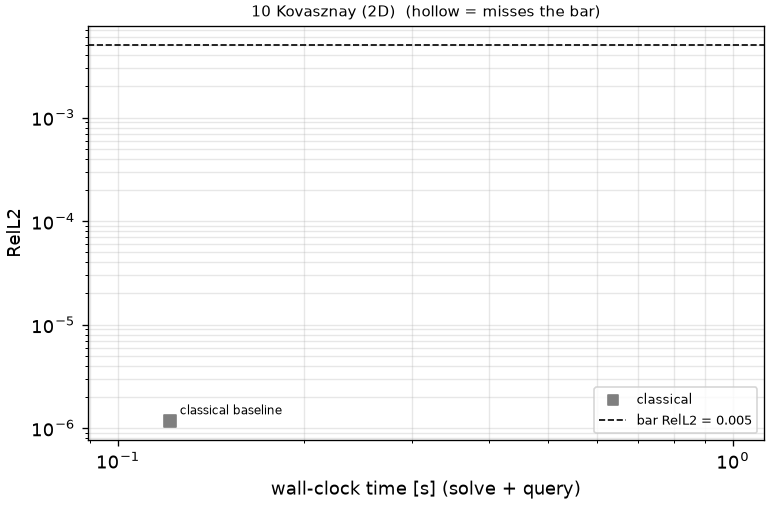
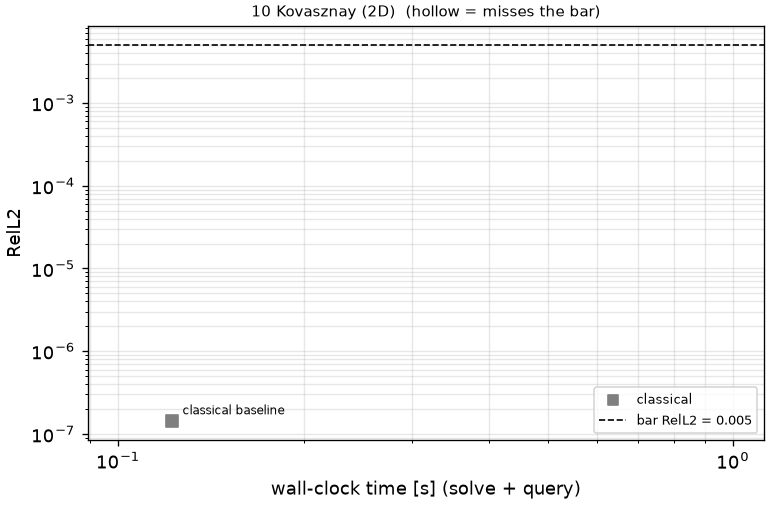
Rescore the multi-field baselines (10, 12, 13) under the flattened metric

diff --git a/tracks/track12_2DT_Burgers/README.md b/tracks/track12_2DT_Burgers/README.md
@@ -13,7 +13,7 @@ Output: (u, v) on the prescribed 512 x 512 grid x_i = -0.25 + i / 512, y_j = -0.
 11 snapshot times t = linspace(0, 0.5, 11); shape (2, 11, 512, 512).
 ```
 
-**Accuracy bar:** RelL2 ≤ 0.005, RelL∞ ≤ 0.01 (per field). **Budget:** 1000 s of wall-clock solve time.
+**Accuracy bar:** RelL2 ≤ 0.005, RelL∞ ≤ 0.01. **Budget:** 1000 s of wall-clock solve time.
 
 ![reference](figures/reference.png)
 ![reference](figures/reference.gif)
@@ -27,11 +27,11 @@ Fourier pseudo-spectral + ETDRK4, 2048^2, dt=0.00025
 
 ## Records
 
-Current record: **1.074 s** (record #0: classical baseline, maintainers, 2026-10-30, NVIDIA H100 80GB HBM3).
+Current record: **1.06 s** (record #0: classical baseline, maintainers, 2026-10-30, NVIDIA H100 80GB HBM3).
 
 | date | author | name | kind | time [s] | RelL2 | RelL∞ | passes | hardware |
 |---|---|---|---|---|---|---|---|---|
-| 2026-10-30 | maintainers | record #0: classical baseline | classical | 1.074 | 9.70e-06 | 2.63e-04 | yes | NVIDIA H100 80GB HBM3 |
+| 2026-10-30 | maintainers | record #0: classical baseline | classical | 1.06 | 9.70e-06 | 2.63e-04 | yes | NVIDIA H100 80GB HBM3 |
 
 ![accuracy_vs_time](figures/accuracy_vs_time.png)
 

diff --git a/tracks/track13_2DT_DecayingEddies/README.md b/tracks/track13_2DT_DecayingEddies/README.md
@@ -13,7 +13,7 @@ Output: (u, v) on the 128 x 128 grid x_i = y_i = 2 pi i / 128 at the 11 times t 
 shape (2, 11, 128, 128).
 ```
 
-**Accuracy bar:** RelL2 ≤ 0.005, RelL∞ ≤ 0.01 (per field). **Budget:** 1000 s of wall-clock solve time.
+**Accuracy bar:** RelL2 ≤ 0.005, RelL∞ ≤ 0.01. **Budget:** 1000 s of wall-clock solve time.
 
 ![reference](figures/reference.png)
 ![reference](figures/reference.gif)
@@ -26,11 +26,11 @@ closed form (Walsh 1992)
 
 ## Records
 
-Current record: **0.1713 s** (record #0: classical baseline, maintainers, 2026-10-30, NVIDIA H100 80GB HBM3).
+Current record: **0.1506 s** (record #0: classical baseline, maintainers, 2026-10-30, NVIDIA H100 80GB HBM3).
 
 | date | author | name | kind | time [s] | RelL2 | RelL∞ | passes | hardware |
 |---|---|---|---|---|---|---|---|---|
-| 2026-10-30 | maintainers | record #0: classical baseline | classical | 0.1713 | 2.05e-15 | 3.82e-15 | yes | NVIDIA H100 80GB HBM3 |
+| 2026-10-30 | maintainers | record #0: classical baseline | classical | 0.1506 | 1.93e-15 | 3.75e-15 | yes | NVIDIA H100 80GB HBM3 |
 
 ![accuracy_vs_time](figures/accuracy_vs_time.png)
 

diff --git a/tracks/track10_2D_Kovasznay/README.md b/tracks/track10_2D_Kovasznay/README.md
@@ -16,7 +16,7 @@ Output: (u, v) on the tensor grid x = linspace(-0.5, 2.0, 251) x y = linspace(-0
 shape (2, 251, 201).
 ```
 
-**Accuracy bar:** RelL2 ≤ 0.005, RelL∞ ≤ 0.01 (per field). **Budget:** 1000 s of wall-clock solve time.
+**Accuracy bar:** RelL2 ≤ 0.005, RelL∞ ≤ 0.01. **Budget:** 1000 s of wall-clock solve time.
 
 ![reference](figures/reference.png)
 
@@ -28,11 +28,11 @@ closed form (Kovasznay 1948)
 
 ## Records
 
-Current record: **0.1212 s** (record #0: classical baseline, maintainers, 2026-10-30, NVIDIA H100 80GB HBM3).
+Current record: **0.1224 s** (record #0: classical baseline, maintainers, 2026-10-30, NVIDIA H100 80GB HBM3).
 
 | date | author | name | kind | time [s] | RelL2 | RelL∞ | passes | hardware |
 |---|---|---|---|---|---|---|---|---|
-| 2026-10-30 | maintainers | record #0: classical baseline | classical | 0.1212 | 1.17e-06 | 1.39e-06 | yes | NVIDIA H100 80GB HBM3 |
+| 2026-10-30 | maintainers | record #0: classical baseline | classical | 0.1224 | 1.43e-07 | 1.80e-07 | yes | NVIDIA H100 80GB HBM3 |
 
 ![accuracy_vs_time](figures/accuracy_vs_time.png)
 

diff --git a/tracks/track11_2D_LidDrivenCavity/README.md b/tracks/track11_2D_LidDrivenCavity/README.md
@@ -13,7 +13,7 @@ Pressure is not scored. RelL-inf is scored only at points >= 0.05 from the walls
 Output: (u, v) on the 256 x 256 grid x, y = linspace(0, 1, 256); shape (2, 256, 256).
 ```
 
-**Accuracy bar:** RelL2 ≤ 0.05, RelL∞ ≤ 0.1 (per field) (RelL∞ only at points ≥ 0.05 from the walls). **Budget:** 1000 s of wall-clock solve time.
+**Accuracy bar:** RelL2 ≤ 0.05, RelL∞ ≤ 0.1 (RelL∞ only at points ≥ 0.05 from the walls). **Budget:** 1000 s of wall-clock solve time.
 
 ![reference](figures/reference.png)
 

diff --git a/tracks/track02_1DT_DampedWave/README.md b/tracks/track02_1DT_DampedWave/README.md
@@ -13,7 +13,7 @@ the domain 4 times while decaying like exp(-gamma t / 2).
 Output: u on the tensor grid t = linspace(0, 4, 801) x x = linspace(0, 1, 1001); shape (1, 801, 1001).
 ```
 
-**Accuracy bar:** RelL2 ≤ 0.005, RelL∞ ≤ 0.01 (per field). **Budget:** 1000 s of wall-clock solve time.
+**Accuracy bar:** RelL2 ≤ 0.005, RelL∞ ≤ 0.01. **Budget:** 1000 s of wall-clock solve time.
 
 ![reference](figures/reference.png)
 ![reference_snapshots](figures/reference_snapshots.png)

diff --git a/tracks/track04_1DT_KuramotoSivashinsky/README.md b/tracks/track04_1DT_KuramotoSivashinsky/README.md
@@ -11,7 +11,7 @@ its trigonometric interpolant). Small errors grow exponentially; the bar reflect
 Output: u at t_k = k / 250, k = 1..250, and x_j = 2 pi j / 511, j = 0..511; shape (1, 250, 512).
 ```
 
-**Accuracy bar:** RelL2 ≤ 0.05, RelL∞ ≤ 0.15 (per field). **Budget:** 1000 s of wall-clock solve time.
+**Accuracy bar:** RelL2 ≤ 0.05, RelL∞ ≤ 0.15. **Budget:** 1000 s of wall-clock solve time.
 
 ![reference](figures/reference.png)
 ![reference](figures/reference.gif)

diff --git a/tracks/track17_2DT_RayleighTaylor/README.md b/tracks/track17_2DT_RayleighTaylor/README.md
@@ -17,7 +17,7 @@ Output: (u, v, T) at the 34 snapshot times problem.axes["t"] (spacing 0.25) on t
 problem.axes["x"], ["y"]; shape (3, 34, 100, 200). Pressure is not scored.
 ```
 
-**Accuracy bar:** RelL2 ≤ 0.02, RelL∞ ≤ 0.1 (per field). **Budget:** 1000 s of wall-clock solve time.
+**Accuracy bar:** RelL2 ≤ 0.02, RelL∞ ≤ 0.1. **Budget:** 1000 s of wall-clock solve time.
 
 ![reference](figures/reference.png)
 ![reference](figures/reference.gif)

diff --git a/tracks/track03_1DT_Burgers/README.md b/tracks/track03_1DT_Burgers/README.md
@@ -11,7 +11,7 @@ Output: u on the prescribed grid x_j = 2 j / 1024, j = 0..1023, at the 500 snaps
 t = linspace(0, 0.5, 500); shape (1, 500, 1024).
 ```
 
-**Accuracy bar:** RelL2 ≤ 0.005, RelL∞ ≤ 0.01 (per field). **Budget:** 1000 s of wall-clock solve time.
+**Accuracy bar:** RelL2 ≤ 0.005, RelL∞ ≤ 0.01. **Budget:** 1000 s of wall-clock solve time.
 
 ![reference](figures/reference.png)
 ![reference_snapshots](figures/reference_snapshots.png)

diff --git a/tracks/track07_2D_HighContrastDiffusion/README.md b/tracks/track07_2D_HighContrastDiffusion/README.md
@@ -13,7 +13,7 @@ Steady diffusion with a discontinuous, high-contrast coefficient on the unit squ
 Output: u at the 256 x 256 cell centers x_i = y_i = (i + 1/2) / 256; shape (1, 256, 256).
 ```
 
-**Accuracy bar:** RelL2 ≤ 0.005, RelL∞ ≤ 0.01 (per field). **Budget:** 1000 s of wall-clock solve time.
+**Accuracy bar:** RelL2 ≤ 0.005, RelL∞ ≤ 0.01. **Budget:** 1000 s of wall-clock solve time.
 
 ![reference](figures/reference.png)
 

diff --git a/tracks/track18_2DT_KolmogorovFlow/README.md b/tracks/track18_2DT_KolmogorovFlow/README.md
@@ -13,7 +13,7 @@ Output: (u, v) at t_k = 0.04 k, k = 1..49, on the 256 x 256 grid of cell centers
 shape (2, 49, 256, 256). Pressure is not scored.
 ```
 
-**Accuracy bar:** RelL2 ≤ 0.05, RelL∞ ≤ 0.15 (per field). **Budget:** 1000 s of wall-clock solve time.
+**Accuracy bar:** RelL2 ≤ 0.05, RelL∞ ≤ 0.15. **Budget:** 1000 s of wall-clock solve time.
 
 ![reference](figures/reference.png)
 ![reference](figures/reference.gif)

diff --git a/tracks/track01_0DT_VanDerPol/README.md b/tracks/track01_0DT_VanDerPol/README.md
@@ -12,7 +12,7 @@ period is ~ (3 - 2 ln 2) mu ~ 1614, so [0, 3000] covers almost two periods.
 Output: y at the 3001 times t = linspace(0, 3000, 3001); shape (1, 3001).
 ```
 
-**Accuracy bar:** RelL2 ≤ 0.005, RelL∞ ≤ 0.01 (per field). **Budget:** 1000 s of wall-clock solve time.
+**Accuracy bar:** RelL2 ≤ 0.005, RelL∞ ≤ 0.01. **Budget:** 1000 s of wall-clock solve time.
 
 ![reference](figures/reference.png)
 

diff --git a/tracks/track09_2D_AdvectionDiffusion/README.md b/tracks/track09_2D_AdvectionDiffusion/README.md
@@ -14,7 +14,7 @@ Output: u on the tensor grid x_i = y_i = (1 - cos(pi i / 256)) / 2, i = 0..256
 shape (1, 257, 257).
 ```
 
-**Accuracy bar:** RelL2 ≤ 0.005, RelL∞ ≤ 0.01 (per field). **Budget:** 1000 s of wall-clock solve time.
+**Accuracy bar:** RelL2 ≤ 0.005, RelL∞ ≤ 0.01. **Budget:** 1000 s of wall-clock solve time.
 
 ![reference](figures/reference.png)
 ![reference_slices](figures/reference_slices.png)
